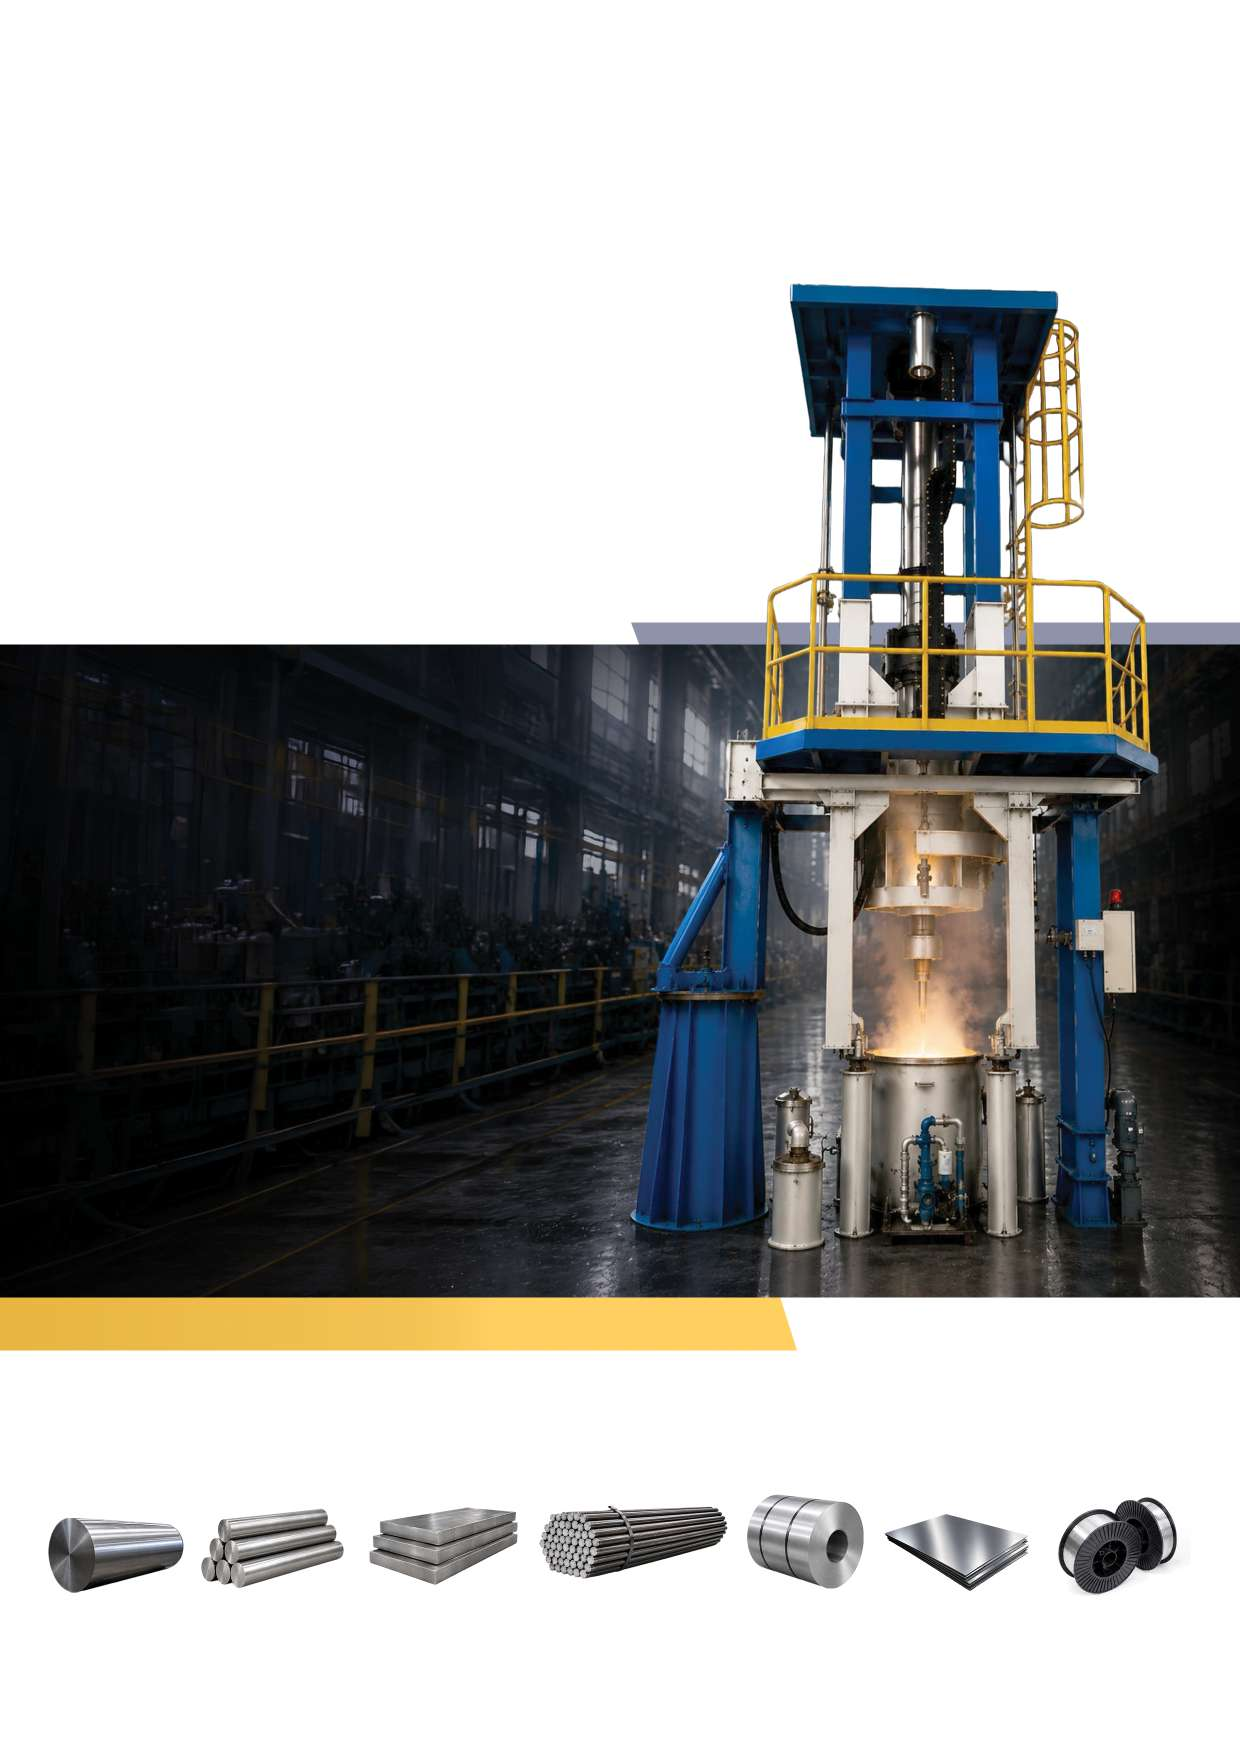
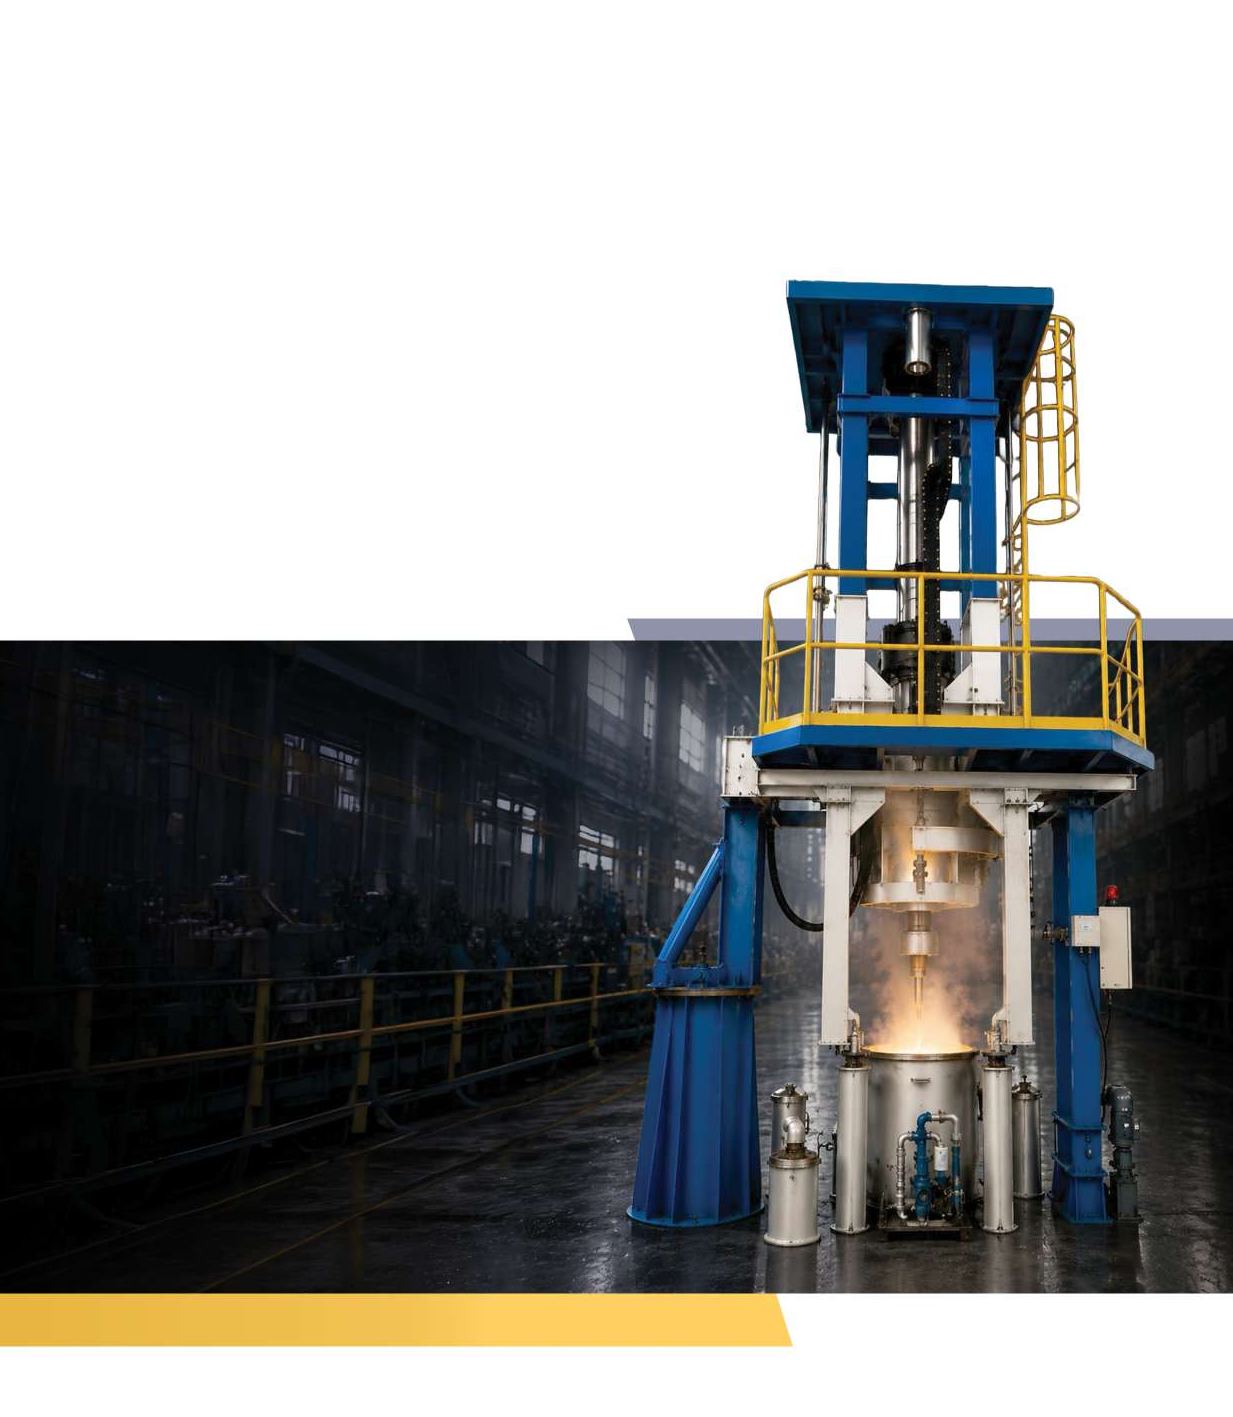
fix: mobile responsive

diff --git a/src/routes/__root.tsx b/src/routes/__root.tsx
@@ -7,10 +7,9 @@ import {
   HeadContent,
   Scripts,
 } from "@tanstack/react-router";
-import { useEffect, type ReactNode } from "react";
+import { type ReactNode } from "react";
 
 import appCss from "../styles.css?url";
-import { reportLovableError } from "../lib/lovable-error-reporting";
 
 function NotFoundComponent() {
   return (
@@ -37,9 +36,6 @@ function NotFoundComponent() {
 function ErrorComponent({ error, reset }: { error: Error; reset: () => void }) {
   console.error(error);
   const router = useRouter();
-  useEffect(() => {
-    reportLovableError(error, { boundary: "tanstack_root_error_component" });
-  }, [error]);
 
   return (
     <div className="flex min-h-screen items-center justify-center bg-background px-4">
@@ -77,14 +73,19 @@ export const Route = createRootRouteWithContext<{ queryClient: QueryClient }>()(
     meta: [
       { charSet: "utf-8" },
       { name: "viewport", content: "width=device-width, initial-scale=1" },
-      { title: "Lovable App" },
-      { name: "description", content: "Lovable Generated Project" },
-      { name: "author", content: "Lovable" },
-      { property: "og:title", content: "Lovable App" },
-      { property: "og:description", content: "Lovable Generated Project" },
+      { title: "VAJRA Alloys" },
+      {
+        name: "description",
+        content: "Manufacturer of superalloys, stainless steels and high speed steels.",
+      },
+      { name: "author", content: "VAJRA Alloys" },
+      { property: "og:title", content: "VAJRA Alloys" },
+      {
+        property: "og:description",
+        content: "Manufacturer of superalloys, stainless steels and high speed steels.",
+      },
       { property: "og:type", content: "website" },
       { name: "twitter:card", content: "summary_large_image" },
-      { name: "twitter:site", content: "@Lovable" },
     ],
     links: [
       {

diff --git a/src/components/site/FormsMarquee.tsx b/src/components/site/FormsMarquee.tsx
@@ -79,8 +79,8 @@ export function FormsMarquee() {
                       {formDetails[form.label]}
                     </p>
                   </div>
-                  <div className="product-image relative flex h-44 items-center justify-center bg-surface/70 p-5 transition-colors duration-300 group-hover:bg-primary-foreground sm:h-52">
-                    <div className="absolute top-4 right-4 bottom-4 left-4 border border-accent/0 transition-colors duration-300 group-hover:border-accent/50" />
+                  <div className="product-image relative flex h-44 items-center justify-center bg-transparent p-3 transition-colors duration-300 sm:h-52 sm:bg-surface/70 sm:p-5 sm:group-hover:bg-primary-foreground">
+                    <div className="absolute top-4 right-4 bottom-4 left-4 hidden border border-accent/0 transition-colors duration-300 group-hover:border-accent/50 sm:block" />
                     <img
                       src={form.url}
                       alt={`${form.label} product form`}
